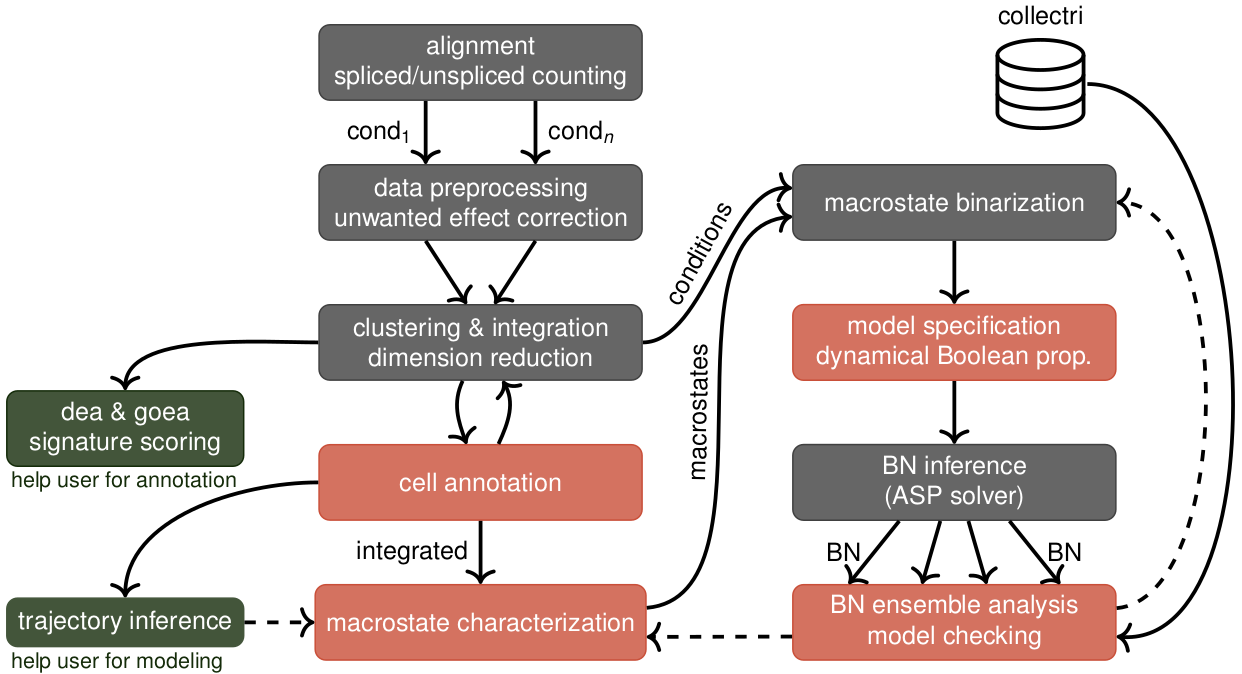
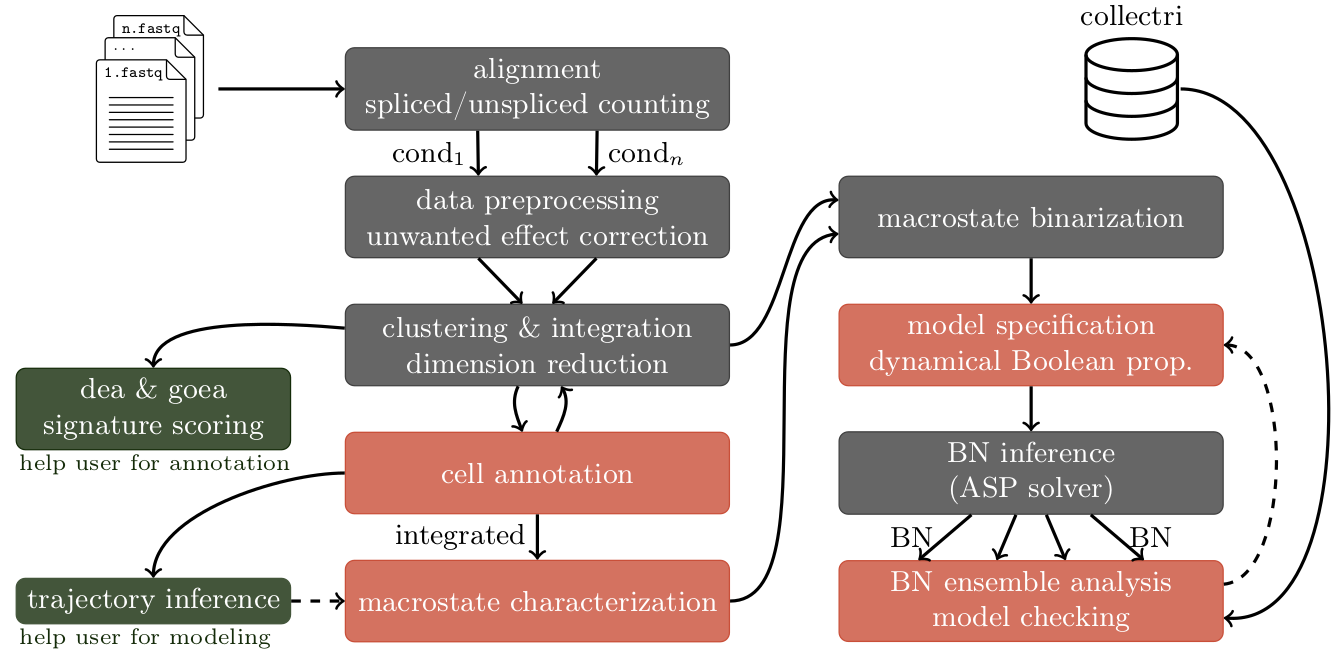
basic usage

Changed region(s): [[0.0, 0.0303, 1.0, 1.0], [0.7955, 0.0, 0.9179, 0.2121], [0.9179, 0.1515, 1.0, 0.5455]]

diff --git a/scripts/inference/inference.py b/scripts/inference/inference.py
@@ -113,10 +113,10 @@ parser.add_argument(
 parser.add_argument(
     "--max-clause",
     dest="max_clause",
-    dest=int,
+    type=int,
     required=False,
     default=8,
-    action="store_true",
+    metavar="INT",
     help="maximum number of literals/atoms in each propositional formula (default: 8)"
 )
 
@@ -163,11 +163,9 @@ metastates_cfg = get_cfg(
 std.print_task("initializing bonesis settings")
 
 pkn_options = {
-    "canonic": True,
+    "canonic": False if args.action.startswith("filter") else True,
     "maxclause": args.max_clause,
 }
-if args.action.startswith("filter"):
-    pkn_options["canonic"] = False
 if args.action == "filter-stage1":
     pkn_options["allow_skipping_nodes"] = True
 

diff --git a/README.md b/README.md
@@ -20,19 +20,40 @@ Its applications are multiple:
 
 ## Method
 
-scBridge (pipeline for Boolean network Reconstruction and Inference from multiple experimental Data in Gene Expression)
-proposes a general methodology for inferring executable models reproducing *in silico*
-the observed cellular dynamics from multiple conditions/experiments.
+The semi-automatic workflow scBridge (pipeline for Boolean network Reconstruction and Inference
+from multiple experimental Data in Gene Expression) proposes a general methodology for
+inferring logical models reproducing the observed transcriptomic cellular dynamics by using scRNA-seq data as input.
+Its implementation in `make` offers a wide range of advanced features for guiding and helping users
+in reconstructing data-driven Boolean networks. Also, scBridge aims to provide an answer to the following challenges:
+* automatize the stages of model reconstruction as much as possible;
+* incorporate multicondition aspect by managing experiment-related factors.
+
+Pipeline is based on the BoNesis framework, where the synthesis of BNs
+requires a partially defined transition graph and a domain restricting the model search
+space. To achieve these goals, scBridge proposes a guideline made up of many computational
+steps (see Figure below). The first ones are classic methods for the
+feature counting and preprocessing. As scBridge aims to decipher biolgical processes from
+multiple high-throughput sequencing experiments, batch effects are identified and removed for avoiding
+inaccurate analysis. Once condition-related data are integrated, cell profiles have to be defined,
+a major step for characterizing observed biological processes later. It is the first step
+requiring user intervention, but some decision-making tools are provided to help user in this task,
+such as differentia expression analysis (dea), gene ontology enrichment analysis (goea) and signature scoring.
+Nevertheless, cell annotation is often not sufficient to deduce transcriptomic dynamics,
+limiting its application to well-documented processes. Some inference trajectory tools
+can be run to analyze the temporal cell behaviors. Then scBridge searches for key phenotypic manifolds,
+-- called macrostates -- and maps feature counting to Boolean values. Serving
+as Boolean states, user can specify dynamical Boolean properties between those states.
+Using as domain a gene-regulatory network such as Collectri, scBridge can then infer BNs
+satisfying the dynamical properties given by the user.
 
 <p align="center">
-<img src="man/fig/workflow-overview.png" alt="boolean network inference pipeline image" width="700"/>
+<img src="man/fig/workflow-overview.png" alt="scbridge-overview" width="700"/>
 <p>
 
-scBridge follows many steps for reconstructing logic models from transcriptomics data.
-Some steps require biological expertise (aided by decision-making tools):
-1. cell annotation (unknown cell profile)
-2. macrostate characterization (finding key phenotypic manifolds)
-3. model specification (biological process dynamics poorly defined in literature)
+*note:* computational steps are either automated (gray), require some user decisions (red) or help user in decisions (green).
+
+For a proper use of the pipeline, an advanced documentation is provided [here](https://github.com/bnediction/scBridge/tree/main/man).
+User can also find a summary documentation using `make help`.
 
 ## Installation
 
